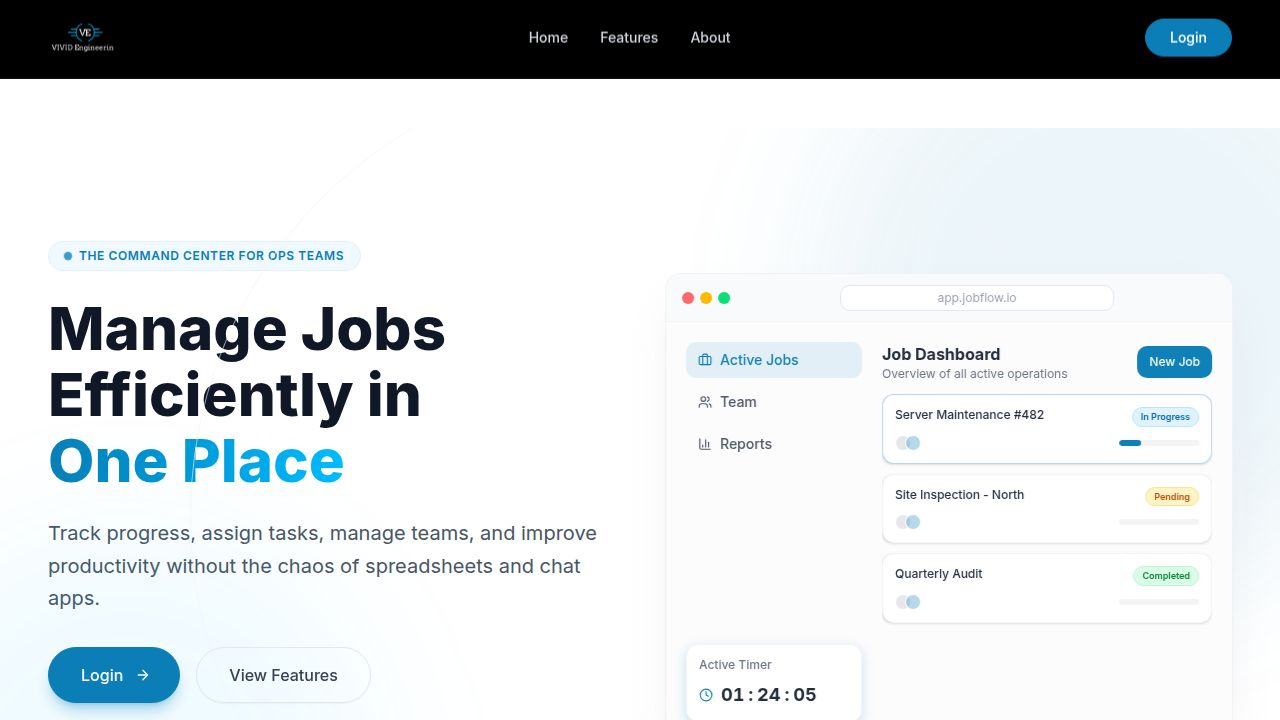
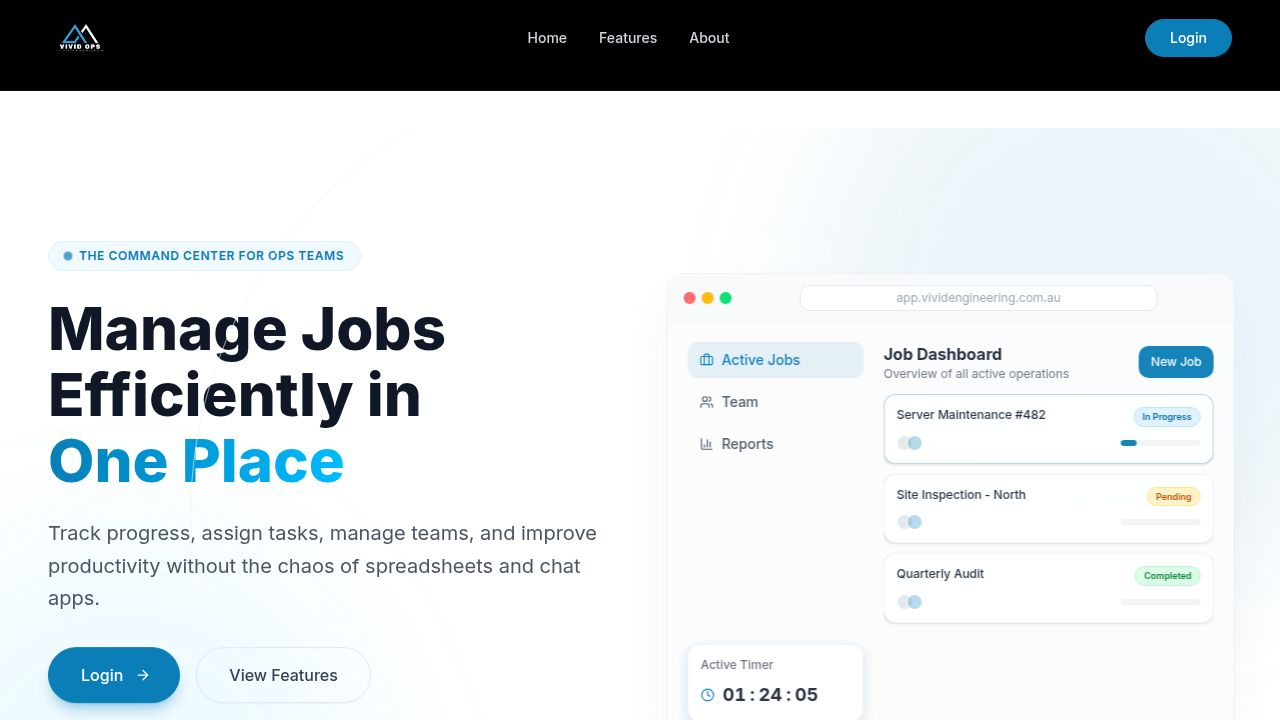
Adjust job reports pagination to show fewer items per page
Update pagination hook in Reports.tsx to set the page size for user job reports from 8 to 6 items.

Replit-Commit-Author: Agent
Replit-Commit-Session-Id: 571fe89e-e9fa-425b-a5bb-cdec7da3fddb
Replit-Commit-Checkpoint-Type: full_checkpoint
Replit-Commit-Event-Id: 9130782a-1f44-4649-885c-713fcc7592ca
Replit-Commit-Screenshot-Url: https://storage.googleapis.com/screenshot-production-us-central1/096fd618-2c12-4340-9857-7f741d8f1155/571fe89e-e9fa-425b-a5bb-cdec7da3fddb/uS3IIF3
Replit-Helium-Checkpoint-Created: true

diff --git a/artifacts/jms-landing/src/pages/admin/Reports.tsx b/artifacts/jms-landing/src/pages/admin/Reports.tsx
@@ -102,7 +102,7 @@ export default function Reports({ role = "super-admin" as Role }: { role?: Role 
     (billableFilter === "all" || (billableFilter === "billable" ? t.billable : !t.billable)) &&
     (search === "" || t.user.toLowerCase().includes(search.toLowerCase()) || t.project.toLowerCase().includes(search.toLowerCase()))
   );
-  const usersP = usePagination(filteredUsers, 8);
+  const usersP = usePagination(filteredUsers, 6);
   const errorsP = usePagination(filteredErrors, 6);
   const timeP = usePagination(filteredTime, 8);
   const totalJobs = filteredUsers.reduce((s, u) => s + u.jobs, 0);